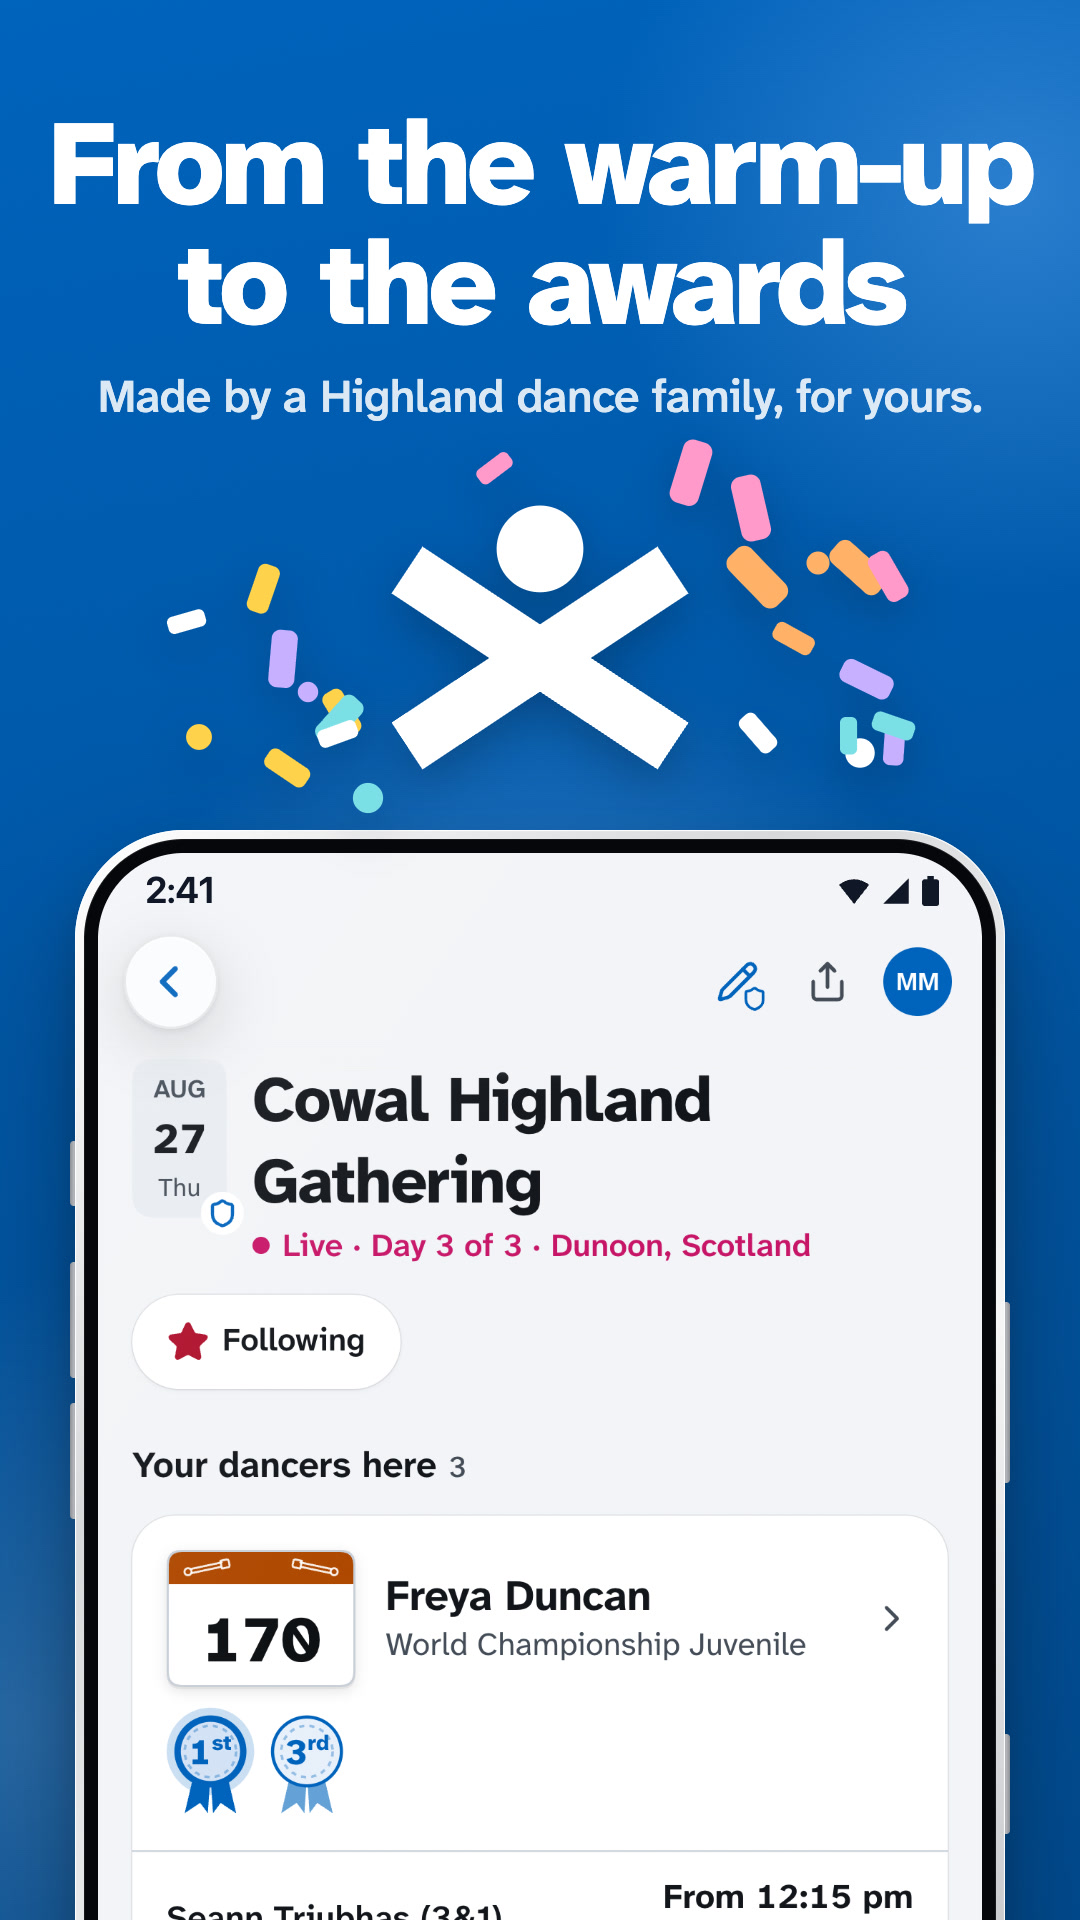
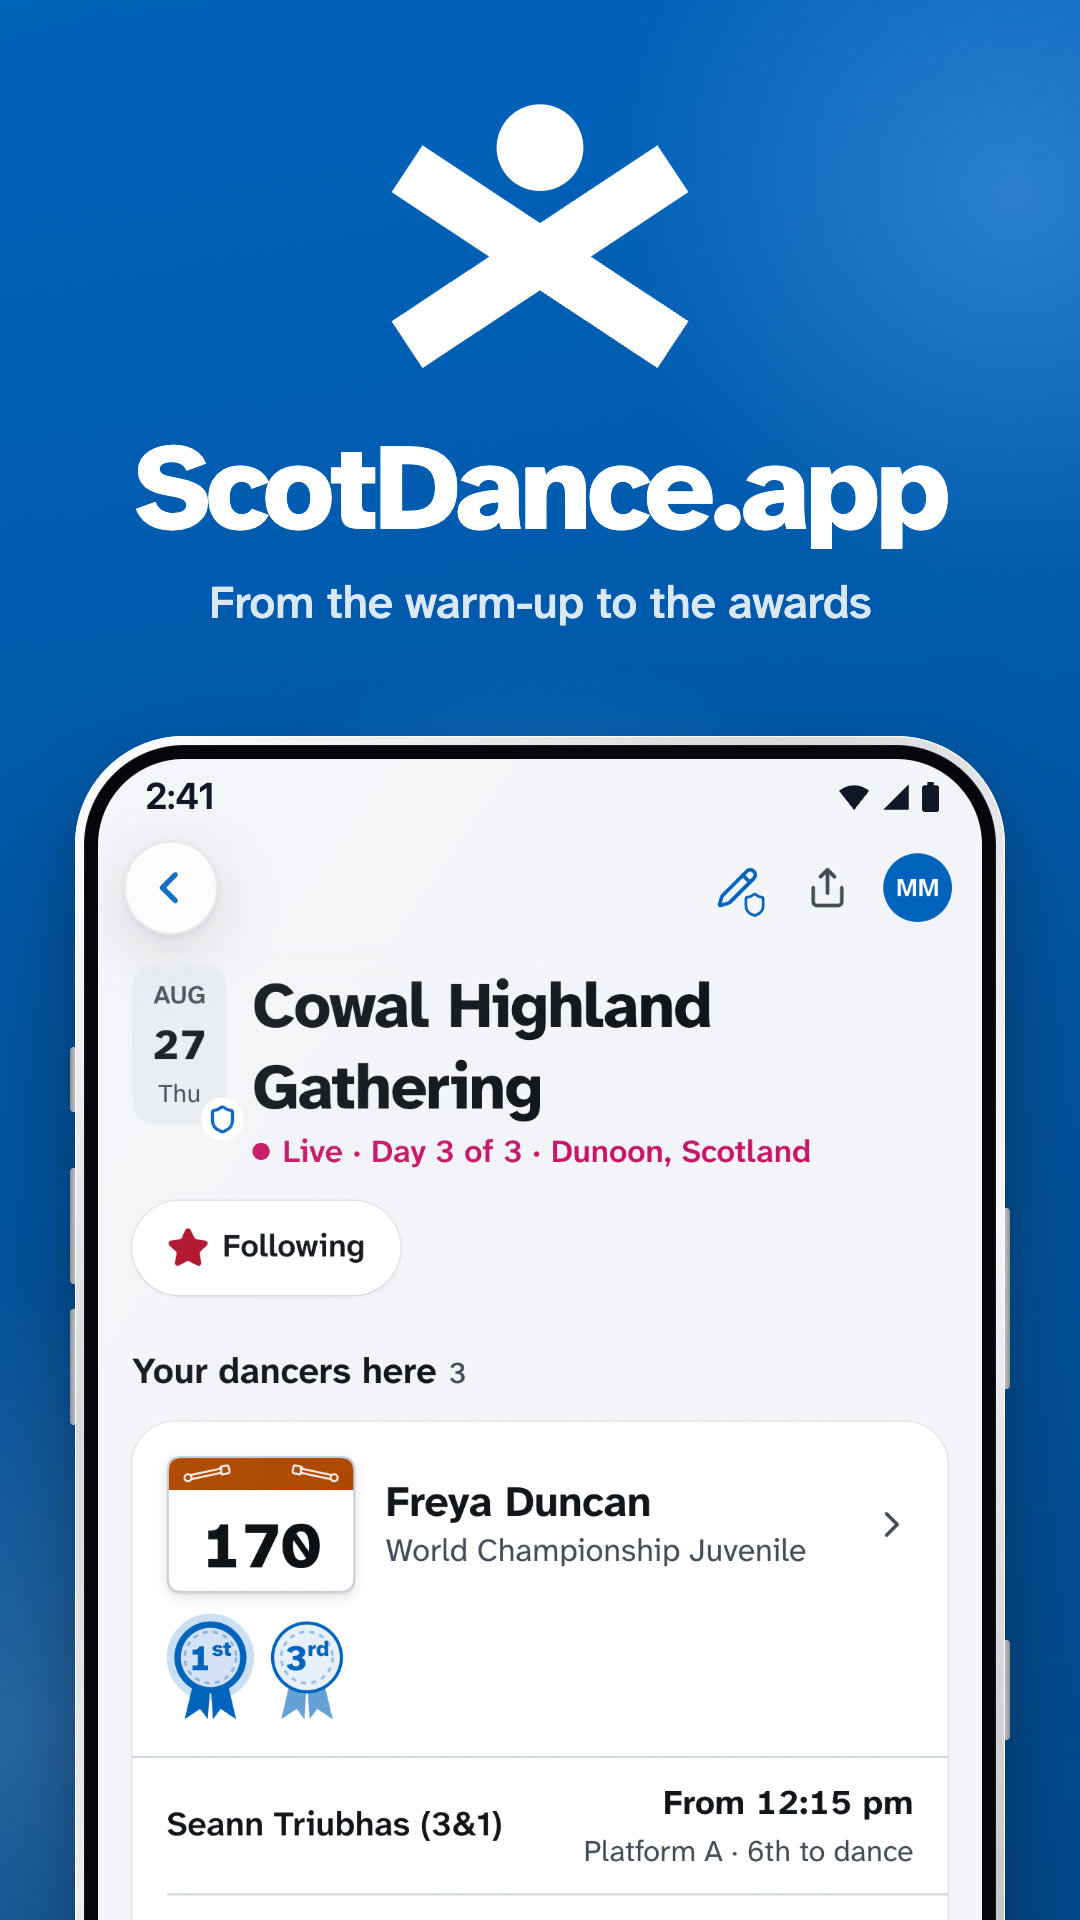
Sign off the store set with the app's name
- Big logo over "ScotDance.app" and "From the warm-up to the awards", phone below
- Drop the confetti and the "Highland dance family" line

diff --git a/web/store/shots.ts b/web/store/shots.ts
@@ -9,11 +9,10 @@
 // Every slot has one big thing beside its phone: the app's own objects at
 // poster size (the number cards, a dance's start time, a 3rd-place rosette, the
 // date tile, rosettes, a schedule chip mid-drag). Scott only ever appears as
-// the logo itself: in the app's lockup on the first slot, and big in the
-// confetti on the last. His leap is saved for the app's own launch.
+// the logo itself: in the app's lockup on the first slot, and big over the
+// app's name on the last. His leap is saved for the app's own launch.
 import type { Ctx, Decor } from './compose.ts'
-import { box, joints, leap } from './mark.ts'
-import { dateTile, dragChip, numberCard, rosette, scott, whenChip } from './props.ts'
+import { dateTile, dragChip, numberCard, rosette, whenChip } from './props.ts'
 
 export interface Shot {
   scene: string
@@ -21,6 +20,8 @@ export interface Shot {
   sub?: string
   /** The app's lockup (Scott as the logo, and "ScotDance.app") above the headline. */
   brand?: boolean
+  /** The sign-off: the logo, big, over the title (the app's name) and subtitle. */
+  signoff?: boolean
   /** Moves the phone: dx, dy in slot widths and heights; scale; and a turn in space. */
   phone?: {
     dx?: number
@@ -48,42 +49,6 @@ const at = (c: Ctx) => ({
 const inside = (c: Ctx, x: number, half: number) =>
   Math.max(half + 0.03 * c.W, Math.min(c.W - half - 0.03 * c.W, x))
 
-// Confetti, seeded so every run is the same: scattered through a band (the
-// open space round the mark), never inside `skip` (the mark itself),
-// thicker near it.
-const CONFETTI = ['#ffffff', '#ffd34d', '#7ee0e6', '#ff9ccb', '#ffb36b', '#c8b2ff']
-interface Area {
-  x: number
-  y: number
-  w: number
-  h: number
-}
-function confetti(band: Area, skip: Area, size: number, count = 24) {
-  let seed = 11
-  const rand = () => (seed = (seed * 16807) % 2147483647) / 2147483647
-  const cx = skip.x + skip.w / 2
-  const bits: string[] = []
-  for (let tries = 0, n = 0; n < count && tries < 6000; tries++) {
-    const x = band.x + rand() * band.w
-    const y = band.y + rand() * band.h
-    const inSkip =
-      x > skip.x - size &&
-      x < skip.x + skip.w + size &&
-      y > skip.y - size &&
-      y < skip.y + skip.h + size
-    // Thicker near it: farther out, fewer survive.
-    if (inSkip || rand() > 1 - Math.min(0.8, Math.abs(x - cx) / band.w)) continue
-    const w = size * (0.7 + rand() * 0.6)
-    const colour = CONFETTI[n++ % CONFETTI.length]
-    bits.push(
-      rand() < 0.35
-        ? `<circle cx="${x.toFixed(0)}" cy="${y.toFixed(0)}" r="${(w / 2).toFixed(1)}" fill="${colour}"/>`
-        : `<rect x="${(x - w / 2).toFixed(0)}" y="${(y - w * 1.1).toFixed(0)}" width="${w.toFixed(1)}" height="${(w * 2.2).toFixed(1)}" rx="${(w / 3).toFixed(1)}" fill="${colour}" transform="rotate(${(rand() * 180).toFixed(0)} ${x.toFixed(0)} ${y.toFixed(0)})"/>`,
-    )
-  }
-  return bits.join('')
-}
-
 /** Slot 3: a giant 3rd-place rosette hanging off the phone's right edge, beside the 3rd place. */
 export const thirdPlace: Decor = {
   layer: 'front',
@@ -93,63 +58,6 @@ export const thirdPlace: Decor = {
     const rx = inside(c, p.R(-0.02), size / 2)
     const ry = p.T(0.975)
     return `<g transform="rotate(10 ${rx.toFixed(0)} ${ry.toFixed(0)})">${rosette(rx, ry, size, '3', 'rd')}</g>`
-  },
-}
-
-/** The last slot: the logo, big, above the phone, in a burst of confetti. */
-export const finaleLogo: Decor = {
-  layer: 'front',
-  draw: (c) => {
-    const p = at(c)
-    const j = leap(0)
-    const b = box(j)
-    const top = c.words + p.u(0.06)
-    const k = Math.min((0.5 * c.W) / b.w, (p.T(-0.06) - top) / b.h)
-    const hx = c.W / 2
-    const hy = top - b.y * k
-    const w = b.w * k
-    return (
-      confetti(
-        {
-          x: Math.max(c.W * 0.04, hx - w * 1.1),
-          y: c.words + p.u(0.02),
-          w: Math.min(c.W * 0.92, w * 2.2),
-          h: p.T(-0.02) - c.words - p.u(0.02),
-        },
-        { x: hx + b.x * k, y: hy + b.y * k, w, h: b.h * k },
-        p.u(0.026),
-      ) + scott(j, hx, hy, k, { ink: '#ffffff' })
-    )
-  },
-}
-
-/** The last slot, the other way: Scott's star jump above the phone, wearing his number, in confetti. */
-export const finaleStar: Decor = {
-  layer: 'front',
-  draw: (c) => {
-    const p = at(c)
-    const star = joints({ arms: [313, 47], legs: [244, 116], neck: 1.05 })
-    const b = box(star)
-    const top = c.words + p.u(0.04)
-    const k = Math.min((0.74 * c.W) / b.w, (p.T(0.0) - top) / b.h)
-    const hx = c.W / 2
-    const hy = top - b.y * k
-    const w = b.w * k
-    return (
-      confetti(
-        {
-          x: Math.max(c.W * 0.04, hx - w * 0.85),
-          y: c.words + p.u(0.02),
-          w: Math.min(c.W * 0.92, w * 1.7),
-          h: p.T(-0.02) - c.words - p.u(0.02),
-        },
-        { x: hx + b.x * k, y: hy + b.y * k, w, h: b.h * k },
-        p.u(0.026),
-        20,
-      ) +
-      scott(star, hx, hy, k, { ink: '#ffffff' }) +
-      numberCard(hx + 8 * k, hy + 34 * k, 215 * k, '145', '#00707a', -6)
-    )
   },
 }
 
@@ -265,9 +173,9 @@ export const SHOTS: Shot[] = [
   },
   {
     scene: 'overview',
-    title: 'From the warm-up\nto the awards',
-    sub: 'Made by a Highland dance family, for yours.',
-    phone: { dy: 0.17 },
-    decor: [finaleLogo],
+    title: 'ScotDance.app',
+    sub: 'From the warm-up to the awards',
+    signoff: true,
+    phone: { dy: 0.02 },
   },
 ]

diff --git a/web/store/compose.ts b/web/store/compose.ts
@@ -105,9 +105,14 @@ const esc = (s: string) => s.replace(/&/g, '&amp;').replace(/</g, '&lt;')
 /** The brand lockup's height (the mark and "ScotDance.app"), and the gap under it. */
 const lockup = (device: Device) => device.art.title * 0.86
 
-/** Where the words end: the top margin, the lockup if any, two lines of title, a gap, one line of subtitle. */
+/** The sign-off's logo: its height, and the gap under it. */
+const signMark = (device: Device) => device.art.title * 2.1
+const signGap = (device: Device) => device.art.title * 0.42
+
+/** Where the words end: the top margin, the lockup or sign-off logo if any, the title (one line on a sign-off, else two), a gap, one line of subtitle. */
 export const wordsEnd = (device: Device, shot?: Shot) => {
   const { art } = device
+  if (shot?.signoff) return art.top + signMark(device) + signGap(device) + art.title + art.sub * 1.95
   return (
     art.top + (shot?.brand ? lockup(device) : 0) + art.title * 1.0 * 2 + art.sub * 1.95
   )
@@ -133,6 +138,17 @@ function brand(device: Device) {
     `<svg width="${(b.w * k).toFixed(0)}" height="${(b.h * k).toFixed(0)}" viewBox="${b.x} ${b.y} ${b.w} ${b.h}">` +
     `${draw(j, { ink: '#ffffff' })}</svg>`
   return `<div class="brand" style="height:${mark}px;margin-bottom:${(lockup(device) - mark).toFixed(0)}px;gap:${(mark * 0.32).toFixed(0)}px;font-size:${(mark * 0.62).toFixed(0)}px">${svg}<span>ScotDance.app</span></div>`
+}
+
+/** The sign-off's logo: Scott as the logo, white, big, over the app's name. */
+function signoff(device: Device) {
+  const h = signMark(device)
+  const j = leap(0)
+  const b = box(j)
+  return (
+    `<div style="height:${h.toFixed(0)}px;margin-bottom:${signGap(device).toFixed(0)}px">` +
+    `<svg width="${((b.w / b.h) * h).toFixed(0)}" height="${h.toFixed(0)}" viewBox="${b.x} ${b.y} ${b.w} ${b.h}">${draw(j, { ink: '#ffffff' })}</svg></div>`
+  )
 }
 
 const GRAIN =
@@ -171,6 +187,7 @@ export function compose(device: Device, shots: Shot[], raws: Record<string, Raw>
       `<section class="slot" style="left:${left}px;background:${pt.field}">` +
         `<header style="left:${art.side}px;top:${art.top}px;width:${W - art.side * 2}px;color:${pt.ink}">` +
         (shot.brand ? brand(device) : '') +
+        (shot.signoff ? signoff(device) : '') +
         `<h1>${esc(shot.title)
           .split('\n')
           .map((l) => `<span class="ln">${l}</span>`)
